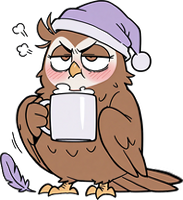
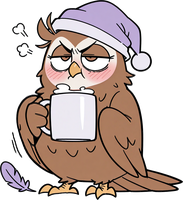
美術:動畫格修正(拍翅整數網格不抖動、貓頭鷹不再彎到地上羽毛、俯衝改往左前傾)

diff --git a/docs/art/tools/make_anim.py b/docs/art/tools/make_anim.py
@@ -44,11 +44,11 @@ def flap(src, amp, band=(0.40, 0.85), inner=0.28, cells=24):
         else: w = 1.0
         return amp * s * w
     mesh = []
-    xs = [W * i / cells for i in range(cells + 1)]; ys = [H * j / cells for j in range(cells + 1)]
+    xs = [round(W * i / cells) for i in range(cells + 1)]; ys = [round(H * j / cells) for j in range(cells + 1)]  # 整數網格：彎曲量 0 時和原圖完全一樣，不會抖
     for i in range(cells):
         for j in range(cells):
             xa, xb, ya, yb = xs[i], xs[i + 1], ys[j], ys[j + 1]
-            box = (round(xa), round(ya), round(xb), round(yb))
+            box = (xa, ya, xb, yb)
             # 輸出格子的四個角 → 輸入的四個角（輸出位置往上移 d，等於從下方 d 取樣）
             quad = (xa, ya + off(xa, ya), xa, yb + off(xa, yb), xb, yb + off(xb, yb), xb, ya + off(xb, ya))
             mesh.append((box, quad))
@@ -62,6 +62,7 @@ def load(*p):
     return Image.open(A(*p)).convert("RGBA")
 
 def walk4(src, lean=0.06, squash=0.95, thin=0.95):
+    # lean：第 2 格的斜切量；正值第 2 格往左、第 4 格往右（魔物朝左，正值＝先往前）。朝右的守衛傳負值。
     """走路 4 格：踩地（變矮）→ 往前傾 → 踩地 → 往後傾。腳底都在同一條線，不往上抬（上下晃動交給程式）。"""
     return [frame(src, sy=squash), frame(src, sx=thin, shear=-lean), frame(src, sy=squash), frame(src, sx=thin, shear=lean)]
 
@@ -93,11 +94,11 @@ canvas.alpha_composite(ball, ((hog.width - ball.width) // 2, foot - ball.height)
 save_frames([canvas], "enemies", "insomnia-hedgehog-ball")
 
 # 熬夜貓頭鷹：三個階段各一套拍翅 4 格；翅膀在身體兩側中下段，避開睡帽、毛球和地上的羽毛、杯子
-OWL = dict(band=(0.45, 0.82), inner=0.30)
+OWL = dict(band=(0.42, 0.70), inner=0.30)  # 下緣收在 0.70（加過渡區約到 0.78），避開地上的羽毛和杯子
 for src_name, out_name in [("night-owl-boss.png", "night-owl-boss-flap"), ("night-owl-boss-phase2.png", "night-owl-boss-phase2-flap"), ("night-owl-boss-phase3.png", "night-owl-boss-phase3-flap")]:
     owl = load("enemies", src_name)
     save_frames([flap(owl, 10, **OWL), owl.copy(), flap(owl, -8, **OWL), owl.copy()], "enemies", out_name)
 # 俯衝：上半身往左下大幅前傾（斜切，不旋轉，地面和腳底不歪）
 owl = load("enemies", "night-owl-boss.png")
-save_frames([frame(owl, sy=0.92, shear=0.22)], "enemies", "night-owl-boss-dive")
+save_frames([frame(owl, sy=0.92, shear=-0.12)], "enemies", "night-owl-boss-dive")  # 負值＝上半身往左（前）
 print("ok")

diff --git a/docs/art/level1-assets.md b/docs/art/level1-assets.md
@@ -57,7 +57,6 @@
 | `public/assets/bullets/milk-drop.png` | 晚安牛奶噴霧的子彈 | 10×10 | 牛奶滴，尖端朝左（往右飛）；扇形噴灑由程式排列 |
 | `public/assets/bullets/music-note.png` | 搖籃曲豎琴的子彈 | 11×14 | 音符 |
 | `public/assets/bullets/moon-beam.png` | 月亮催眠燈的光束 | 32×10 | 橫向重複接成長光束 |
-
 | `public/assets/enemies/insomnia-hedgehog-roll.png` | 失眠刺蝟 滾球（滾動撞人時用） | 48×48 | 程式畫；可以讓程式旋轉 |
 
 棉被迴力鏢的子彈就是武器圖本身（`weapons/blanket-boomerang.png`），旋轉著飛。
@@ -82,9 +81,9 @@
 | `public/assets/enemies/night-owl-boss-dive.png` | 熬夜貓頭鷹 俯衝 1 格（往左下） | 181×200 |
 
 - 拍翅的「平」格（第 2、4 格）就是原圖本身。
-- 貓頭鷹的翅膀收在身體兩側、抱著咖啡杯，拍翅動作比較小；程式可以再加上下浮動讓飛行更明顯。俯衝格是上半身往左前傾。
+- 貓頭鷹的翅膀收在身體兩側、抱著咖啡杯，拍翅動作比較小；程式可以再加上下浮動讓飛行更明顯。俯衝格是上半身往左前傾，身體會比原圖窄一點（斜切後為了不超出畫布）。
 - 小綿羊守衛的動畫放在 `characters/`（和原圖 `default-guard.png` 同一個資料夾），魔物放在 `enemies/`。
-- 關著的寶箱（`items/treasure-chest-closed.png`）和刺蝟正面的刺盾（新版 `enemies/insomnia-hedgehog.png`）在第三批已經交付，請拉最新的 `art/style-guide` 分支。
+- 關著的寶箱（`items/treasure-chest-closed.png`）和刺蝟正面的刺盾（新版 `enemies/insomnia-hedgehog.png`，見第一張表）已經交付，請拉最新的 `art/style-guide` 分支。
 
 ## 還沒做 / 已知問題
 
